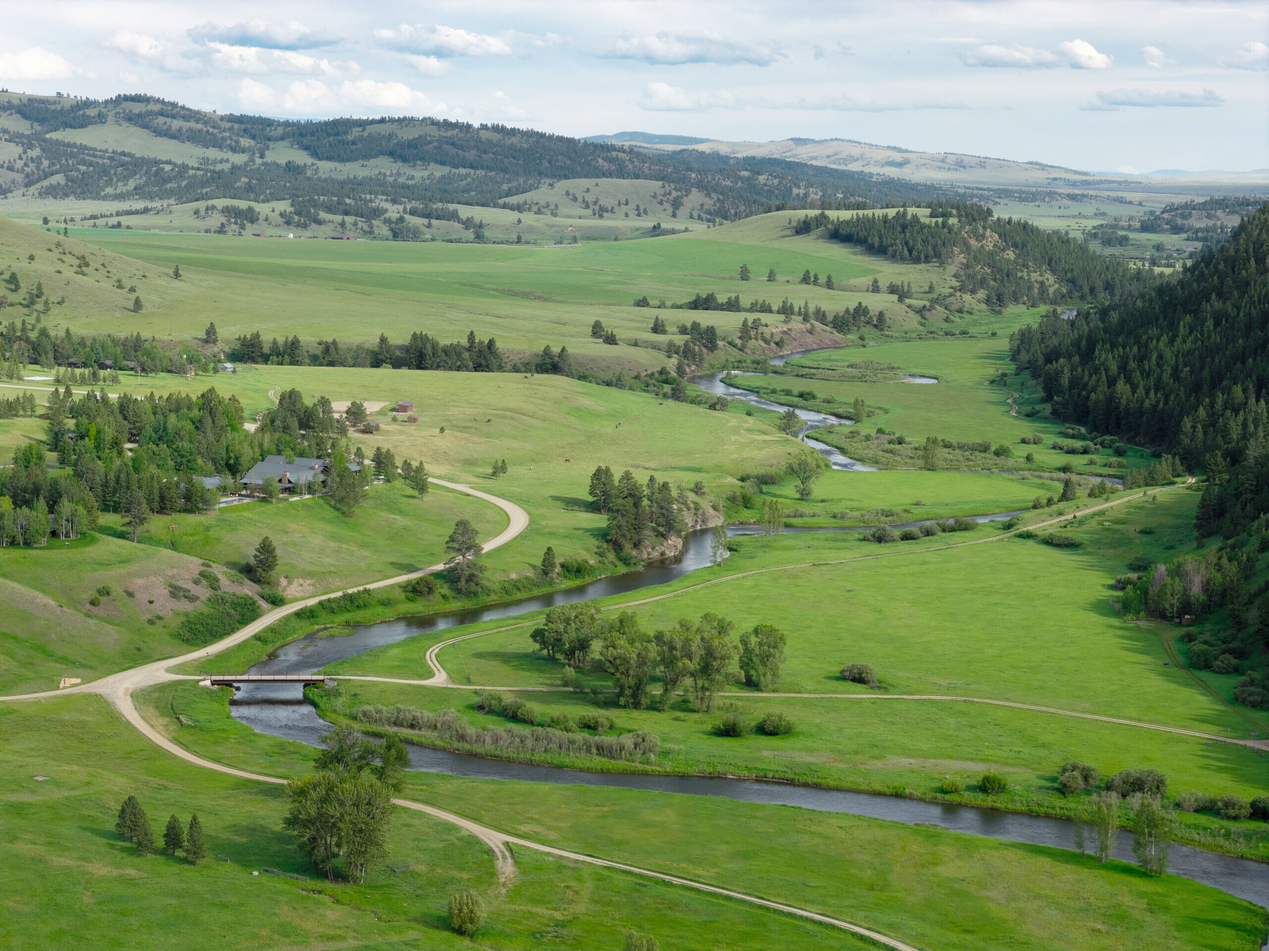
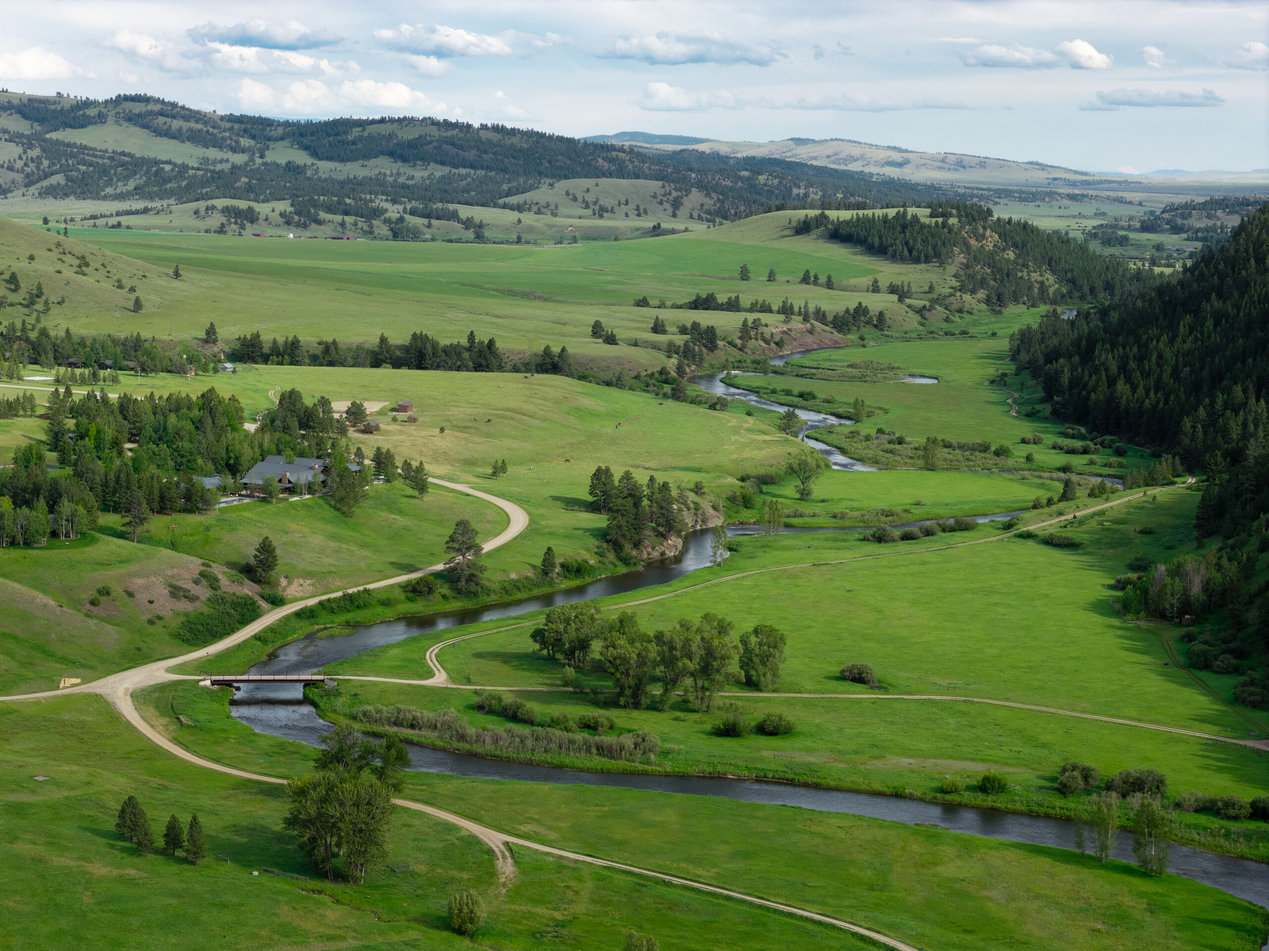
Add files via upload

diff --git a/ranch3/index.html b/ranch3/index.html
@@ -84,7 +84,7 @@
   .chapter.visible .gallery-slide img{transform:scale(1)}
   #wildlife .gallery-slide img,#wildlife.chapter.visible .gallery-slide img{object-position:77% 20%;transform:none}
   #hospitality .gallery-slide img,#hospitality.chapter.visible .gallery-slide img{object-position:center;transform:none}
-  .chapter-image::after{content:"";position:absolute;inset:0;background:linear-gradient(180deg,rgba(8,9,7,.04) 44%,rgba(8,9,7,.55) 100%)}
+  .chapter-image::after{content:"";position:absolute;inset:0;background:linear-gradient(180deg,rgba(8,9,7,.08) 40%,rgba(8,9,7,.7) 100%)}
   #water .chapter-image::after{background:linear-gradient(180deg,transparent 68%,rgba(8,9,7,.12) 100%),linear-gradient(90deg,rgba(8,9,7,.28) 0%,rgba(8,9,7,.14) 48%,transparent 82%);background-size:100% 100%,100% 42%;background-position:center,bottom left;background-repeat:no-repeat}
   .image-title{position:relative;z-index:2;padding:clamp(28px,5vw,64px) clamp(22px,6vw,76px);max-width:1060px;opacity:1;visibility:visible;transition:opacity .35s ease,visibility .35s ease}
   .image-title.gallery-title-hidden{opacity:0;visibility:hidden}
@@ -270,144 +270,6 @@
     .final-gallery-visual{aspect-ratio:3/2}
   }
   @media(prefers-reduced-motion:reduce){*{animation:none!important;transition:none!important}.gallery-slide img{transform:none!important}}
-
-  /* ==================== LIGHT VARIANT ====================
-     Overrides only. Anything sitting on top of a photograph
-     (hero, chapter titles, closing, lightbox) stays light-on-dark. */
-  :root{
-    --ink:#f7f4ee;
-    --forest:#ece5d8;
-    --forest-2:#e5dccd;
-    --cream:#221e18;
-    --cream-dim:#5f574a;
-    --paper:#f7f4ee;
-    --paper-ink:#221e18;
-    --paper-sub:#5f574a;
-    --gold:#8a6c36;
-    --gold-light:#7c6130;
-    --line:rgba(138,108,54,.30);
-  }
-  body{background:var(--ink);color:var(--cream)}
-  .progress{background:#8a6c36}
-
-  /* --- sits on photography: keep light --- */
-  .brand{color:#f3eee5}
-  .brand span{color:#dbc38f}
-  .hero h1,.hero .subtitle{color:#f3eee5}
-  .scroll-cue{color:#c9c1b5}
-  .image-title h2,.image-title p{color:#f3eee5}
-
-  /* --- the lightbox is a photo viewer: stays dark --- */
-  .photo-lightbox{background:#0c0d0b;color:#f3eee5}
-  .lightbox-heading{color:#f3eee5}
-  .lightbox-top,.lightbox-meta{border-color:rgba(192,162,103,.34)}
-  .lightbox-close,.lightbox-control{color:#f3eee5;border-color:rgba(192,162,103,.34)}
-  .lightbox-control{background:rgba(12,13,11,.7)}
-  .lightbox-close:hover,.lightbox-control:hover,.lightbox-close:focus-visible,.lightbox-control:focus-visible{background:#c0a267;color:#11100d;border-color:#c0a267}
-  .lightbox-caption,.lightbox-count{color:#c9c1b5}
-  .lightbox-caption.stock{color:#dbc38f}
-
-  /* --- closing sits on a photograph --- */
-  .closing::after{background:rgba(12,13,10,.68)}
-  .closing h2,.closing .broker-name{color:#f3eee5}
-  .closing p,.closing .broker-title,.closing .broker-address{color:#c9c1b5}
-  .closing .eyebrow,.closing .broker-mark{color:#dbc38f}
-  .closing .detail-button{color:#f3eee5;border-color:#c0a267}
-  .closing .detail-button:hover{background:#c0a267;color:#11100d}
-  .closing .detail-row{color:#c9c1b5;border-color:rgba(192,162,103,.24)}
-  .closing .detail-row b{color:#f3eee5}
-  .closing .broker-card{border-color:rgba(192,162,103,.3)}
-  .closing .broker-links a:hover{color:#dbc38f;border-color:#c0a267}
-  footer{color:rgba(243,238,229,.62);border-color:rgba(192,162,103,.2)}
-
-  /* --- the gate goes light too --- */
-  .gate{background:#f7f4ee}
-  .gate-logo{filter:brightness(.2)}
-  .gate .gate-mark{color:#221e18}
-  .gate .gate-mark span{color:#8a6c36}
-  .gate input{color:#221e18;border-color:rgba(138,108,54,.45)}
-  .gate input::placeholder{color:#8b8274}
-  .gate input:focus{border-color:#8a6c36}
-  .gate button{background:#8a6c36;color:#f7f4ee;border-color:#8a6c36}
-  .gate button:hover,.gate button:focus-visible{background:#a07f43;border-color:#a07f43}
-  .gate .gate-err{color:#a33a1e}
-
-  /* --- gold accents darkened so they hold on a light ground --- */
-  .eyebrow{color:#8a6c36}
-  .hero-fact strong{color:#7c5f2b}
-  .signature-fact.split span+span{color:#7c5f2b}
-  .detail-group h4,.arrival-item span{color:#8a6c36}
-  .gallery-caption.stock{color:#8a6c36}
-  .detail-button{color:#221e18}
-  .detail-button:hover{background:#8a6c36;color:#f7f4ee}
-  .final-gallery-open{color:#221e18;border-color:#8a6c36}
-  .final-gallery-open:hover,.final-gallery-open:focus-visible{background:#8a6c36;color:#f7f4ee}
-  .land-map img,.access-map img,.arrival-grid,.detail-row,.arrival-item+.arrival-item{border-color:#d8cdb8}
-  .arrival-item p,.land-map figcaption,.access-map figcaption{color:#5f574a}
-  .final-gallery{background:var(--forest)}
-
-  /* ============ DECLUTTER VARIANT ============
-     Two structural changes on top of the light palette:
-     1. ONE type scale (8 steps, was 29)
-     2. ONE way of presenting a fact (was five)            */
-
-  :root{
-    --t1:clamp(52px,9vw,116px);   /* hero                        */
-    --t2:clamp(36px,5.6vw,66px);  /* chapter titles              */
-    --t3:clamp(27px,3.5vw,42px);  /* section headings, big stats */
-    --t4:clamp(19px,2.1vw,24px);  /* subtitles, fact values      */
-    --t5:17px;                    /* body                        */
-    --t6:14px;                    /* secondary                   */
-    --t7:11px;                    /* small                       */
-    --t8:10px;                    /* uppercase labels            */
-  }
-  .hero h1{font-size:var(--t1)}
-  .image-title h2,.closing h2{font-size:var(--t2)}
-  .overview h2,.hero-fact strong,.detail-panel h3,.land-map h3,.arrival-heading,.broker-name{font-size:var(--t3)}
-  .hero .subtitle,.image-title p,.signature-fact,#water .water-statement,.operations-fact,
-  .detail-row b,.arrival-item strong,.lightbox-heading,.broker-mark{font-size:var(--t4)}
-  .overview p,.summary-copy p,.detail-panel .lede,#water .water-rights,
-  .land-map figcaption,.access-map figcaption,.detail-figure figcaption{font-size:var(--t5)}
-  .detail-row,.arrival-item p,.broker-links,.broker-address{font-size:var(--t6)}
-  .gate input,.detail-row .detail-subnote,.lightbox-caption,.lightbox-count,
-  .gallery-caption,.gallery-count,.hero-fact span{font-size:var(--t7)}
-  .eyebrow,.detail-group h4,.arrival-item span,.detail-button,.final-gallery-open,
-  .gate .gate-mark span,.gate button,.scroll-cue,.brand span,footer{font-size:var(--t8)}
-
-  /* ---- ONE fact pattern: hairline rules, no boxes ---- */
-  .hero-facts{display:grid;grid-template-columns:repeat(4,1fr);gap:0;margin-top:40px;
-              background:none;border:0;border-top:1px solid var(--line)}
-  .hero-fact{background:none;padding:22px 26px 22px 0;border-bottom:1px solid var(--line)}
-  .hero-fact strong{color:var(--cream);font-weight:500}
-  .hero-fact span{display:block;margin-top:8px;letter-spacing:.16em;color:var(--paper-sub)}
-
-  .operations-facts{display:block;max-width:650px;margin-top:22px;border:0;border-top:1px solid var(--line)}
-  .operations-fact{display:block;min-height:0;padding:13px 0;border:0;border-bottom:1px solid var(--line)}
-
-  .arrival-grid{display:block;border:0;border-top:1px solid var(--line)}
-  .arrival-item{padding:18px 0;border:0!important;border-bottom:1px solid var(--line)!important;
-                display:grid;grid-template-columns:150px 1fr;gap:6px 28px;align-items:baseline}
-  .arrival-item span{grid-column:1;letter-spacing:.16em}
-  .arrival-item strong{grid-column:2;margin-top:0}
-  .arrival-item p{grid-column:2;margin-top:2px;color:var(--paper-sub)}
-
-  .signature-fact{margin-top:22px;padding:14px 0;border-top:1px solid var(--line);border-bottom:1px solid var(--line)}
-  .detail-row{padding:13px 0;border-bottom:1px solid var(--line)}
-
-  /* ---- one surface, no alternating stripe ---- */
-  .chapter-summary,.chapter:nth-of-type(even) .chapter-summary,.overview,.final-gallery{background:var(--forest)}
-
-  /* declutter variant — responsive corrections (must come after the block above) */
-  @media(max-width:850px){
-    .hero-facts{grid-template-columns:repeat(2,1fr)}
-    .hero-fact{padding-right:18px}
-  }
-  @media(max-width:560px){
-    .hero-facts{grid-template-columns:1fr}
-    .hero-fact{padding:16px 0}
-    .arrival-item{grid-template-columns:1fr;gap:4px}
-    .arrival-item span,.arrival-item strong,.arrival-item p{grid-column:1}
-  }
 </style>
 </head>
 <body>
